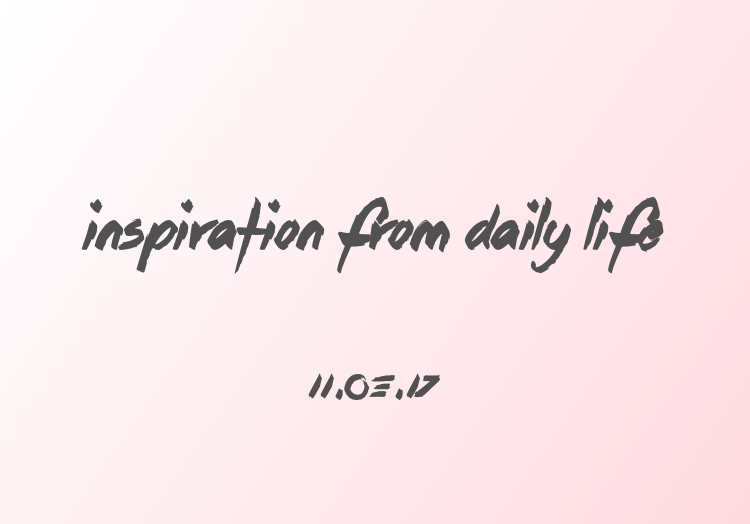
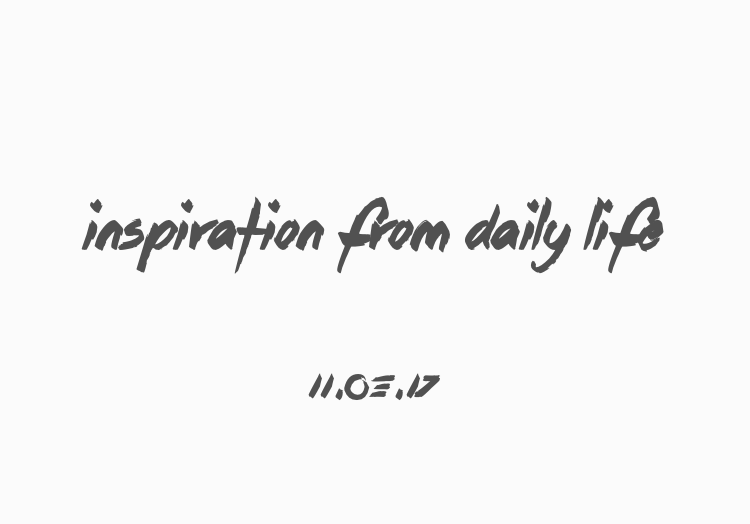
edit cover pic

Changed region(s): [[0.644, 0.3053, 1.0, 1.0]]

diff --git a/writing.html b/writing.html
@@ -44,7 +44,7 @@
 </div>
 <div id="intro" class="row">
   <div class="col-sm-6 flex-sm-last">
-    <img width="100%" height="100%" src="images/workprofile.jpg"/>
+    <img width="100%" height="100%" src="images/pf2.png"/>
   </div>
   <div class="col-sm-6">
     <p id="intro1">Hi, this is Yudi.</p>
